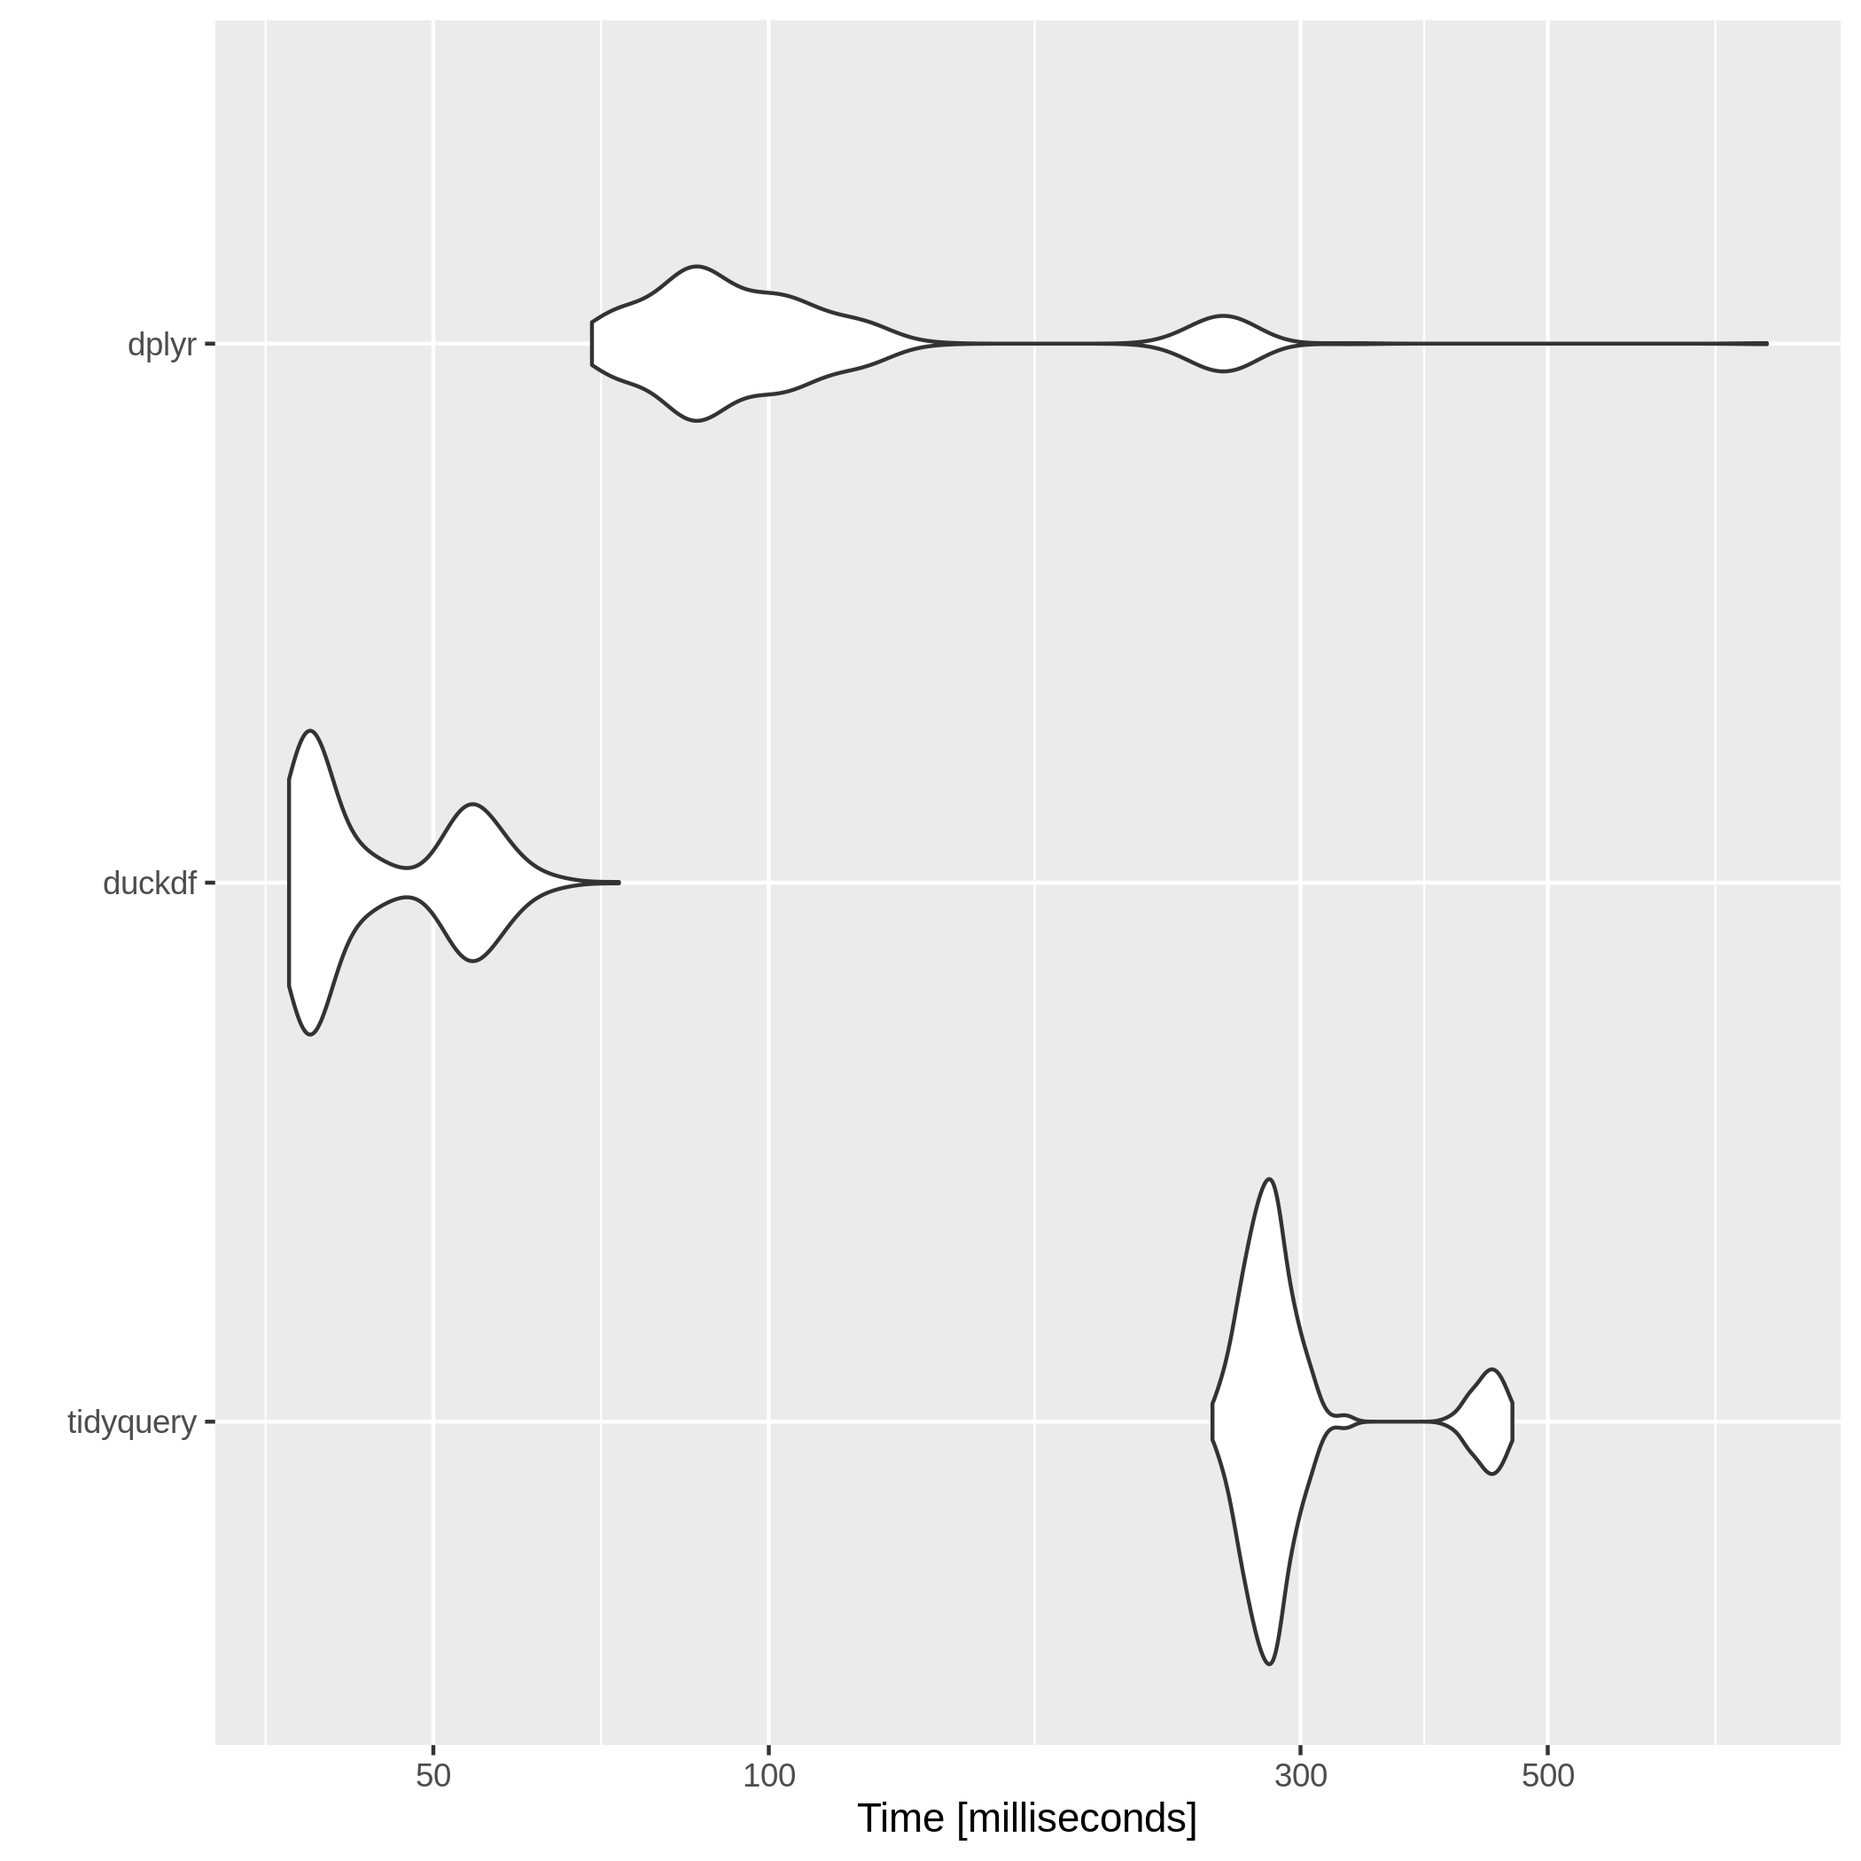
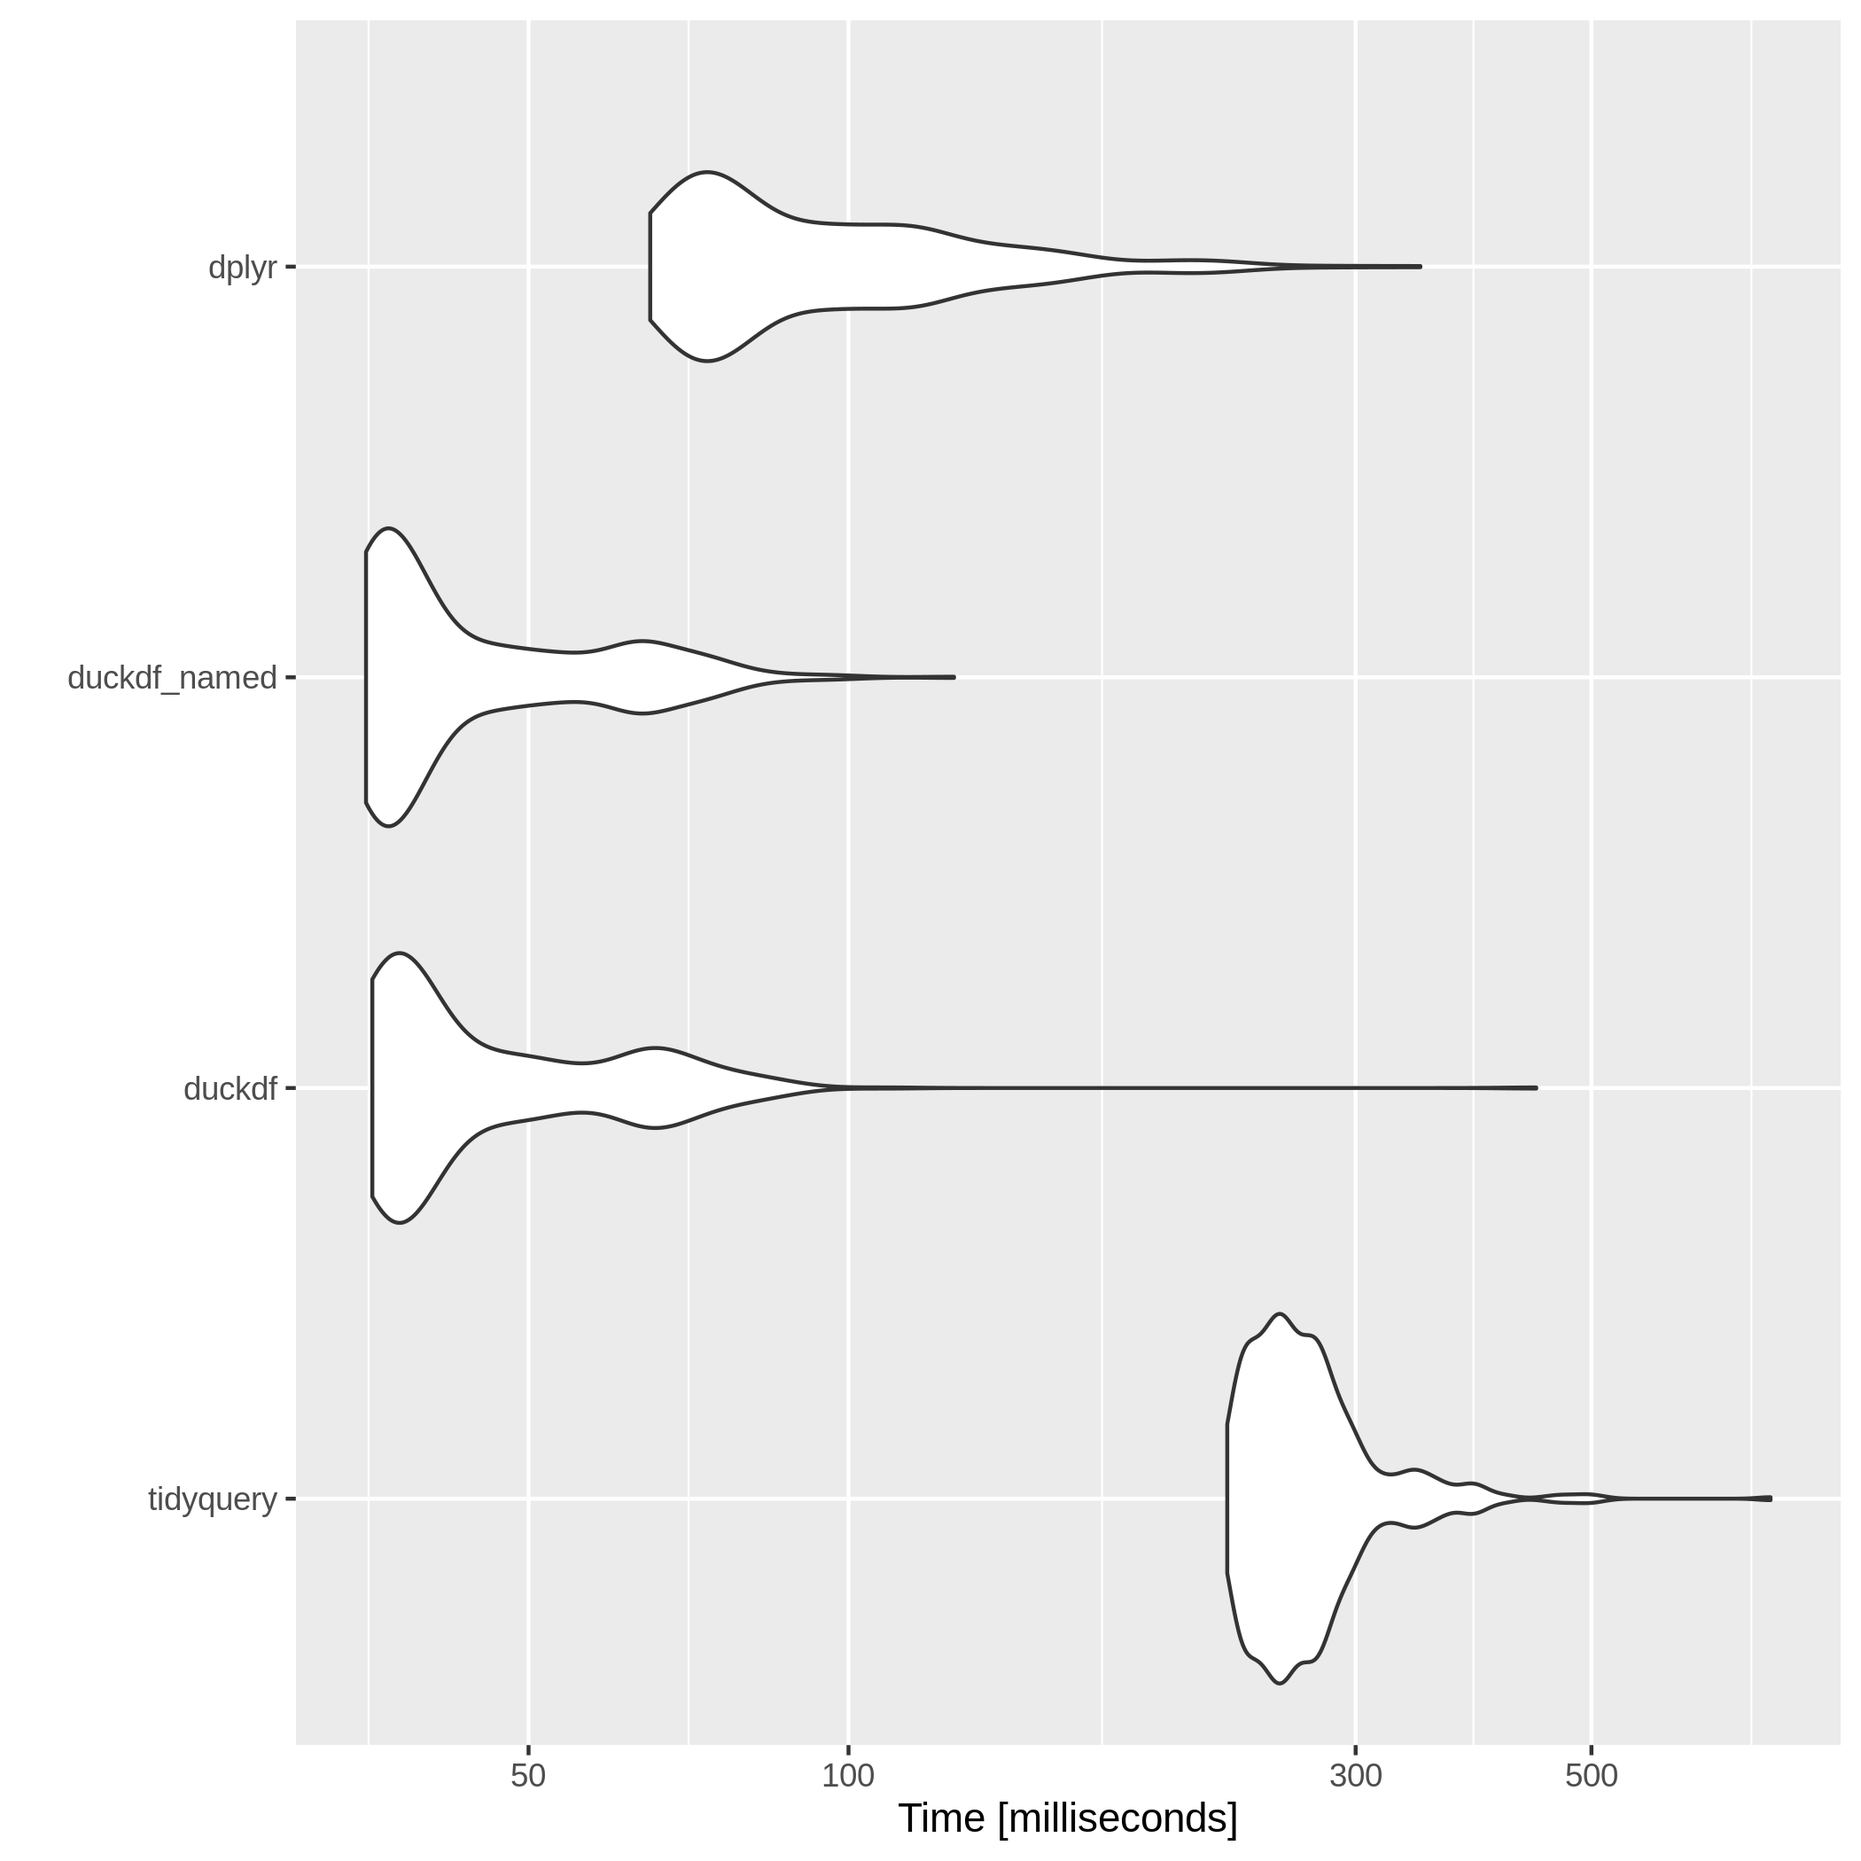
Update README with new function params and updated benchmarks

diff --git a/README.md b/README.md
@@ -3,7 +3,7 @@
 
 This is a convenience package for everyone who has a deep and abiding love affair with SQL (and ducks).
 
-Instead of using other incredibly popular and useful packages like [data.table](https://rdatatable.gitlab.io/data.table/) or [dplyr](https://dplyr.tidyverse.org/), one could use `duckdf` instead to slice and dice dataframes with SQL. Precedence exists in the [sqldf](https://github.com/ggrothendieck/sqldf) package, but this one is better because it quacks (although is not nearly as comprehensive, well planned or tested).
+Instead of using other incredibly popular and useful packages like [data.table](https://rdatatable.gitlab.io/data.table/) or [dplyr](https://dplyr.tidyverse.org/), one could use `duckdf` instead to slice and dice dataframes with SQL. Precedence exists in the [sqldf](https://github.com/ggrothendieck/sqldf) package, but this one is better because it quacks.
 
 It's also meant to be a bit of fun.
 
@@ -37,7 +37,35 @@ This registers the well known `mtcars` dataset as a virtual table in the `duckdb
 
 In reality, this function is just a simple wrapper around a collection of `DBI` functions, such as `dbConnect()`, `dbGetQuery()`, `dbDisconnect()` and the `duckdb` function `duckdb_register`.
 
-Joins of up to two dataframes are supported. See the `nycflights13` benchmark example below for such an SQL query.
+If you want to fly as fast as possible, the same query may be executed, but with the dataframe specifically named:
+
+```r
+duckdf("SELECT mpg, cyl FROM mtcars WHERE disp >= 200", 
+      df_name = "mtcars")
+ ```
+Defining a specific dataframe name in this way is slightly faster than allowing `duckdf()` to figure it out by making a decision based on the query string alone. As `duckdf()` uses string processing to decide the dataframe name to use when one is not defined, it is probably also more robust to do define one, although perhaps not as convenient.
+
+Multiple dataframes may be named, to support joins:
+
+```r
+  duckdf(
+"SELECT origin, dest,
+    COUNT(flight) AS num_flts,
+    round(SUM(seats)) AS num_seats,
+    round(AVG(arr_delay)) AS avg_delay
+  FROM flights f LEFT OUTER JOIN planes p
+    ON f.tailnum = p.tailnum
+  WHERE distance BETWEEN 200 AND 300
+    AND air_time IS NOT NULL
+  GROUP BY origin, dest
+  HAVING COUNT(flight) > 3000
+  ORDER BY num_seats DESC, avg_delay ASC
+  LIMIT 2;",
+  df_name = c("flights", "planes")
+        )
+```
+
+Joins of up to only two dataframes are supported where no specific dataframes are defined. See the `nycflights13` benchmark example below for such an SQL query.
 
 ```r
 duckdf("SELECT mpg, cyl FROM mtcars WHERE disp >= 200",
@@ -65,7 +93,7 @@ If you've already created a DuckDB database, or received one from the flock, it 
 duckdf::gander("mtcars")
 ```
 
-Assuming the database is in the current working directory, this returns a list of the first five rows from each table. Each list item name corresponds with the database table name. Databases with up to two tables are supported.
+IF the database is found in the current working directory, this returns a list of the first five rows from each table. Each list item name corresponds with the database table name. Databases with up to two tables are currently supported.
 
 ```r
 duckdf::gander("mtcars", show_types = TRUE)
@@ -78,14 +106,14 @@ This following function simply removes all traces of the `duckdb` called `mtcars
 duckdf::cleanup("mtcars")
 ```
 
-This package now also supports DuckDB's CSV reader. In the spirit of R packages using obscure verbs to describe functions, in this package we have `duckdf::ingest()`
+This package also supports DuckDB's CSV reader. In the spirit of R packages using obscure verbs to describe functions, in this package we have `duckdf::ingest()`
 
 ```r
 duckdf::ingest(name = "descriptive_name", 
               file = "filename.csv", 
               persist = TRUE)
 ```
-The above will ingest the file called `filename.csv`, if found in the current working directory, into a `duckdb` database named, `descriptive_name`, and save it to disk. The single table in the database will also be called `descriptive_name`. This data can then be queried with `duckdf::persist()`. 
+The above will ingest the file called `filename.csv`, if found in the current working directory, into a `duckdb` database named, `descriptive_name`, and save it to disk. The single table in the database will also be called `descriptive_name`. This data can then be queried with `duckdf(query, persist = TRUE)` or `duckdf_persist()`. 
 
 If `persist = FALSE`, only a dataframe in the global environment is created, via a `duckdb` virtual table intermediate, and then `duckdf()` may be used to query it directly.
 
@@ -156,7 +184,13 @@ duck_bench <- microbenchmark(times=500,
                              tidyquery =  {query("SELECT mpg, cyl FROM mtcars WHERE disp >= 200")},
                              # duckdf library
                              duckdf = {duckdf("SELECT mpg, cyl FROM mtcars WHERE disp >= 200")},
-                             duckdf_persist = {duckdf::persist("SELECT mpg, cyl FROM mtcars WHERE disp >= 200")},
+                             duckdf_df_name = {duckdf("SELECT mpg, cyl FROM mtcars WHERE disp >= 200", 
+                                              df_name = "mtcars")},
+                             duckdf_persist = {duckdf("SELECT mpg, cyl FROM mtcars WHERE disp >= 200", 
+                                              persist = TRUE)},
+                             duckdf_persist_named = {duckdf("SELECT mpg, cyl FROM mtcars WHERE disp >= 200", 
+                                                    persist = TRUE, 
+                                                    db_name = "mt_cars")},
                              # data.table library
                              data_table = {mtcars_data_table[disp >= 200, c("mpg", "cyl"),]},
                              # dplyr library
@@ -188,56 +222,74 @@ library(nycflights13)
 
 vs_tidyquery <- microbenchmark(times = 500,
 
-                                          tidyquery = {
-                                            tidyquery::query(
-                                          "SELECT origin, dest,
-                                              COUNT(flight) AS num_flts,
-                                              round(SUM(seats)) AS num_seats,
-                                              round(AVG(arr_delay)) AS avg_delay
-                                            FROM flights f LEFT OUTER JOIN planes p
-                                              ON f.tailnum = p.tailnum
-                                            WHERE distance BETWEEN 200 AND 300
-                                              AND air_time IS NOT NULL
-                                            GROUP BY origin, dest
-                                            HAVING num_flts > 3000
-                                            ORDER BY num_seats DESC, avg_delay ASC
-                                            LIMIT 2;"
-                                                            )
-                                                      },
+                              tidyquery = {
+                                tidyquery::query(
+                              "SELECT origin, dest,
+                                  COUNT(flight) AS num_flts,
+                                  round(SUM(seats)) AS num_seats,
+                                  round(AVG(arr_delay)) AS avg_delay
+                                FROM flights f LEFT OUTER JOIN planes p
+                                  ON f.tailnum = p.tailnum
+                                WHERE distance BETWEEN 200 AND 300
+                                  AND air_time IS NOT NULL
+                                GROUP BY origin, dest
+                                HAVING num_flts > 3000
+                                ORDER BY num_seats DESC, avg_delay ASC
+                                LIMIT 2;"
+                                                )
+                                          },
 
-                                          duckdf = {
-                                            duckdf(
-                                          "SELECT origin, dest,
-                                              COUNT(flight) AS num_flts,
-                                              round(SUM(seats)) AS num_seats,
-                                              round(AVG(arr_delay)) AS avg_delay
-                                            FROM flights f LEFT OUTER JOIN planes p
-                                              ON f.tailnum = p.tailnum
-                                            WHERE distance BETWEEN 200 AND 300
-                                              AND air_time IS NOT NULL
-                                            GROUP BY origin, dest
-                                            HAVING COUNT(flight) > 3000
-                                            ORDER BY num_seats DESC, avg_delay ASC
-                                            LIMIT 2;"
-                                                  )
-                                                    },
+                              duckdf = {
+                                duckdf(
+                              "SELECT origin, dest,
+                                  COUNT(flight) AS num_flts,
+                                  round(SUM(seats)) AS num_seats,
+                                  round(AVG(arr_delay)) AS avg_delay
+                                FROM flights f LEFT OUTER JOIN planes p
+                                  ON f.tailnum = p.tailnum
+                                WHERE distance BETWEEN 200 AND 300
+                                  AND air_time IS NOT NULL
+                                GROUP BY origin, dest
+                                HAVING COUNT(flight) > 3000
+                                ORDER BY num_seats DESC, avg_delay ASC
+                                LIMIT 2;"
+                                      )
+                                        },
 
-                                          dplyr = {
-                                            flights %>%
-                                              left_join(planes, by = "tailnum", suffix = c(".f", ".p"), na_matches = "never") %>%
-                                              rename(f.year = "year.f", p.year = "year.p") %>%
-                                              filter(dplyr::between(distance, 200, 300) & !is.na(air_time)) %>%
-                                              group_by(origin, dest) %>%
-                                              filter(sum(!is.na(flight)) > 3000) %>%
-                                              summarise(num_flts = sum(!is.na(flight)), 
-                                                        num_seats = round(sum(seats, na.rm = TRUE)), 
-                                                        avg_delay = round(mean(arr_delay, 
-                                                        na.rm = TRUE))) %>%
-                                              ungroup() %>%
-                                              arrange(dplyr::desc(num_seats), avg_delay) %>%
-                                              head(2)
-                                                  }
-                                )
+                               duckdf_named = {
+                                duckdf(
+                              "SELECT origin, dest,
+                                  COUNT(flight) AS num_flts,
+                                  round(SUM(seats)) AS num_seats,
+                                  round(AVG(arr_delay)) AS avg_delay
+                                FROM flights f LEFT OUTER JOIN planes p
+                                  ON f.tailnum = p.tailnum
+                                WHERE distance BETWEEN 200 AND 300
+                                  AND air_time IS NOT NULL
+                                GROUP BY origin, dest
+                                HAVING COUNT(flight) > 3000
+                                ORDER BY num_seats DESC, avg_delay ASC
+                                LIMIT 2;",
+                                df_name = c("flights", "planes")
+                                      )
+                                        },
+
+                              dplyr = {
+                                flights %>%
+                                  left_join(planes, by = "tailnum", suffix = c(".f", ".p"), na_matches = "never") %>%
+                                  rename(f.year = "year.f", p.year = "year.p") %>%
+                                  filter(dplyr::between(distance, 200, 300) & !is.na(air_time)) %>%
+                                  group_by(origin, dest) %>%
+                                  filter(sum(!is.na(flight)) > 3000) %>%
+                                  summarise(num_flts = sum(!is.na(flight)), 
+                                            num_seats = round(sum(seats, na.rm = TRUE)), 
+                                            avg_delay = round(mean(arr_delay, 
+                                            na.rm = TRUE))) %>%
+                                  ungroup() %>%
+                                  arrange(dplyr::desc(num_seats), avg_delay) %>%
+                                  head(2)
+                                      }
+                    )
 
 autoplot(vs_tidyquery)
 ```
